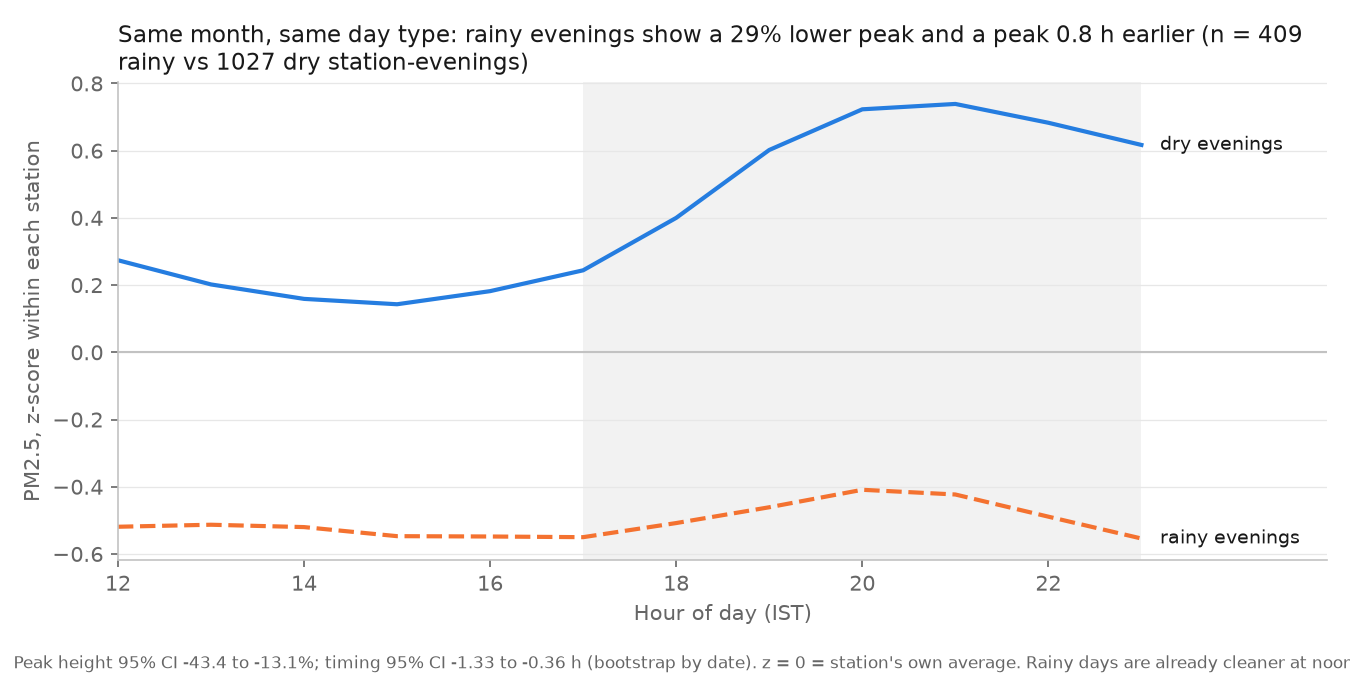
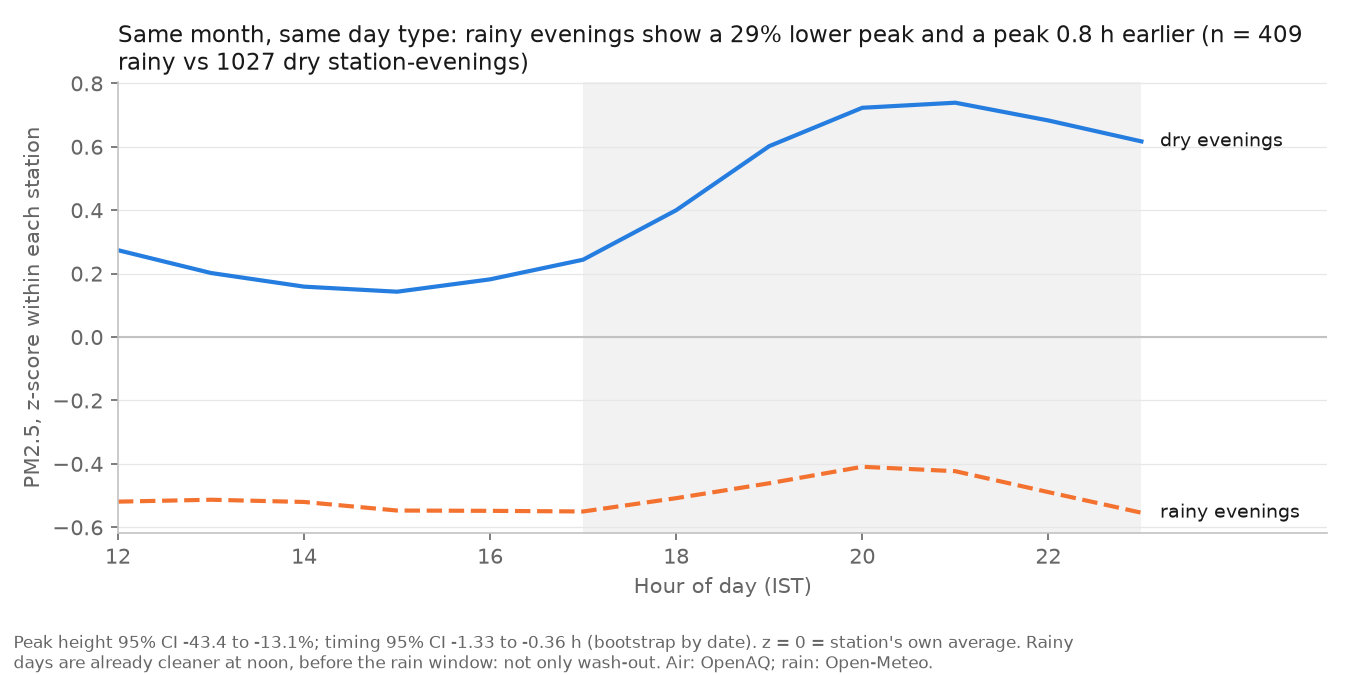
Chart render fixes (wrapped footnotes, map labels) and V profile clean-MB fix; tick M2/M3

diff --git a/src/11_charts.py b/src/11_charts.py
@@ -21,6 +21,7 @@ Run:  python src/11_charts.py
 
 import json
 import math
+import textwrap
 
 import matplotlib
 
@@ -51,9 +52,16 @@ def summary():
 def finish(fig, ax, title, filename, note=None):
     """Same title position, light grid and footnote on every chart."""
     ax.set_title(title, loc="left", fontsize=11, wrap=True)
+    # Wrap long footnotes so they never run off the right edge of the image.
+    # Width in characters grows with the figure width (about 14 characters per inch at 8 pt).
+    note_lines = 0
     if note:
-        fig.text(0.01, 0.01, note, fontsize=8, color=INK_2)
-    fig.tight_layout(rect=(0, 0.04 if note else 0, 1, 1))
+        width_chars = int(fig.get_figwidth() * 14)
+        wrapped = textwrap.fill(note, width=width_chars)
+        note_lines = wrapped.count("\n") + 1
+        fig.text(0.01, 0.01, wrapped, fontsize=8, color=INK_2)
+    # Leave room at the bottom: about 0.04 of the figure height per footnote line.
+    fig.tight_layout(rect=(0, 0.04 * note_lines, 1, 1))
     fig.savefig(CHARTS / filename, dpi=150)
     plt.close(fig)
     print(f"  {filename}: {title}")
@@ -230,9 +238,15 @@ def chart_coverage():
         ax.add_patch(circle)
         ax.text(lon0 - radius / 111 - 0.002, lat0, f"{radius} km", fontsize=7, color=INK_2, ha="right")
     ax.scatter(st["lon"], st["lat"], s=60, color=DRY, edgecolor="white", lw=2, zorder=3)
+    # Three southern stations sit close together, so their labels would overlap.
+    # Give those three a hand-picked position (left / below / right of the dot); the rest go top-right.
+    label_offsets = {"Jayanagar 5th Block": (-0.006, 0.0, "right"),
+                     "BTM Layout": (0.0, -0.012, "center"),
+                     "Silk Board": (0.006, 0.0, "left")}
     for _, row in st.iterrows():
         label = row["name"].split(",")[0]
-        ax.text(row["lon"] + 0.004, row["lat"] + 0.003, label, fontsize=8, color=INK)
+        dx, dy, align = label_offsets.get(label, (0.004, 0.003, "left"))
+        ax.text(row["lon"] + dx, row["lat"] + dy, label, fontsize=8, color=INK, ha=align, va="center")
     ax.scatter([lon0], [lat0], marker="+", color=INK, s=80)
     ax.text(lon0 + 0.004, lat0 - 0.008, "city centre", fontsize=8, color=INK_2)
     for name, (la, lo) in {"Whitefield": (12.97, 77.75), "Electronic City": (12.84, 77.66),

diff --git a/src/12_inventory_vprofile.py b/src/12_inventory_vprofile.py
@@ -22,9 +22,12 @@ REPORT = ROOT / "report"
 
 
 def folder_mb(path):
-    """Size of every file under a folder, in MB."""
+    """Size in MB of one file, or of every file under a folder."""
     if not path.exists():
         return 0.0
+    # A single file (e.g. a .parquet or .csv): rglob would find nothing inside it, so size it directly.
+    if path.is_file():
+        return round(path.stat().st_size / 1e6, 2)
     return round(sum(f.stat().st_size for f in path.rglob("*") if f.is_file()) / 1e6, 1)
 
 

diff --git a/report/v_profile.md b/report/v_profile.md
@@ -2,10 +2,10 @@
 
 | Source | Rows | Raw MB | Clean MB | Format | Velocity |
 |---|---:|---:|---:|---|---|
-| OpenAQ hourly readings | 204,584 | 193.2 | 0.0 | JSON (nested records) -> parquet | 28 series x 1 value/hour = 28 new values/hour (112 raw 15-min readings/hour behind them); newest reading 1.8 h old when we downloaded |
-| Open-Meteo weather | 9,984 | 0.5 | 0.0 | JSON (parallel arrays) -> parquet | 1 row/hour for the city; archive published with a delay of a few days |
-| Calendar | 416 | 0 | 0.0 | CSV built by hand | 1 row/day; fixed once a year by government notification |
-| Full analysis grid (readings_clean) | 279,552 | 0 | 0.0 | parquet (also MySQL table readings) | every station x pollutant x hour, gaps included as empty rows |
+| OpenAQ hourly readings | 204,584 | 193.2 | 1.4 | JSON (nested records) -> parquet | 28 series x 1 value/hour = 28 new values/hour (112 raw 15-min readings/hour behind them); newest reading 1.8 h old when we downloaded |
+| Open-Meteo weather | 9,984 | 0.5 | 0.15 | JSON (parallel arrays) -> parquet | 1 row/hour for the city; archive published with a delay of a few days |
+| Calendar | 416 | 0 | 0.04 | CSV built by hand | 1 row/day; fixed once a year by government notification |
+| Full analysis grid (readings_clean) | 279,552 | 0 | 1.4 | parquet (also MySQL table readings) | every station x pollutant x hour, gaps included as empty rows |
 
 **Volume.** 204,584 hourly air-quality rows from 7 stations over 14 months, 193.2 MB of raw JSON in 392 API pages. The full hourly grid (with gaps as empty rows) is 279,552 rows.
 **Velocity.** The network adds 28 new hourly values every hour for our stations (each built from four 15-minute readings), and OpenAQ's newest reading was 1.8 hours old when we downloaded. That speed is why collection was written as resumable month-by-month pulls with a cache, not a one-off download.

diff --git a/MANUAL_STEPS.md b/MANUAL_STEPS.md
@@ -7,8 +7,8 @@ Steps marked *(details added later)* depend on data we haven't pulled yet. Their
 ## Status
 
 - [x] M1 Get an OpenAQ API key → `.env` (verified 2026-11-26: OpenAQ PASS, Open-Meteo PASS)
-- [ ] M2 Install MySQL 8 (Docker or native), create DB + user → `.env`
-- [ ] M3 Install Java 17, verify with a tiny Spark job
+- [x] M2 Install MySQL 8 (Docker or native), create DB + user → `.env` (Docker container eightpm-mysql, port 3307)
+- [x] M3 Install Java 17, verify with a tiny Spark job
 - [ ] M4 Create the GitHub repo, add teammates, push (repo created and pushed 2026-11-26; teammates still to be added)
 - [x] M5 Approve city, dates and station list (2026-11-26: Bengaluru, 2025-10-01 to 2026-11-20, 7 stations at >=60% PM2.5 coverage → data/manual/stations_approved.csv)
 - [ ] M6 Verify the holiday and festival calendar draft (14 rows flagged needs_check)
